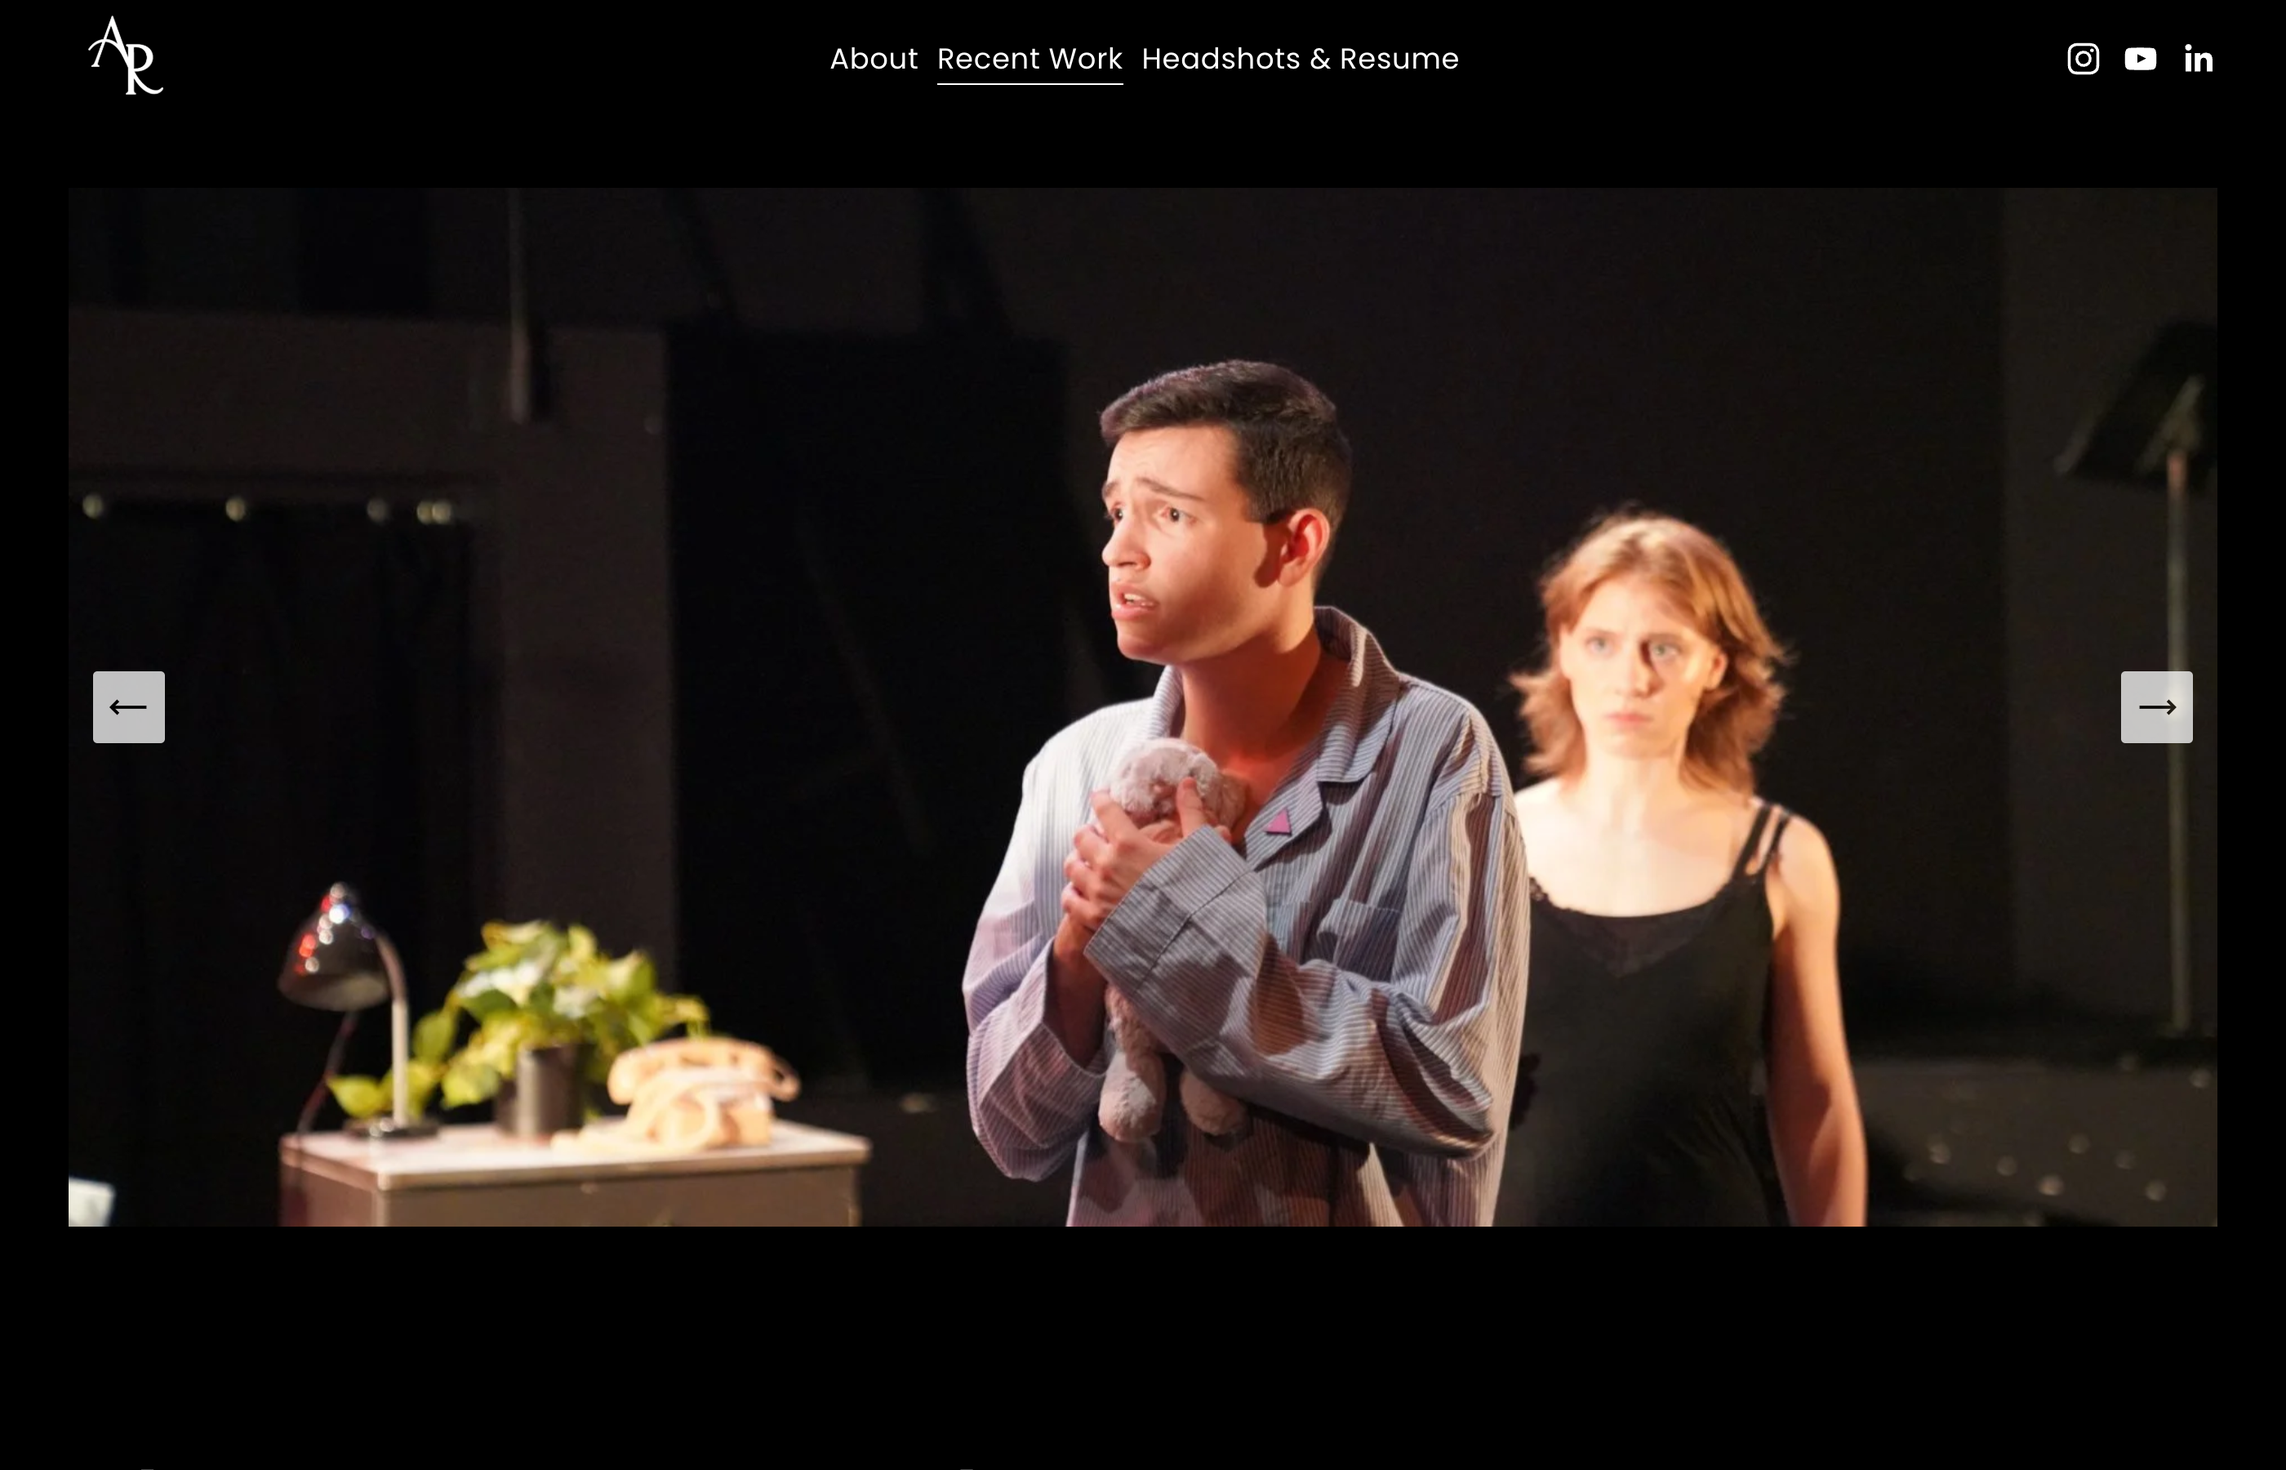
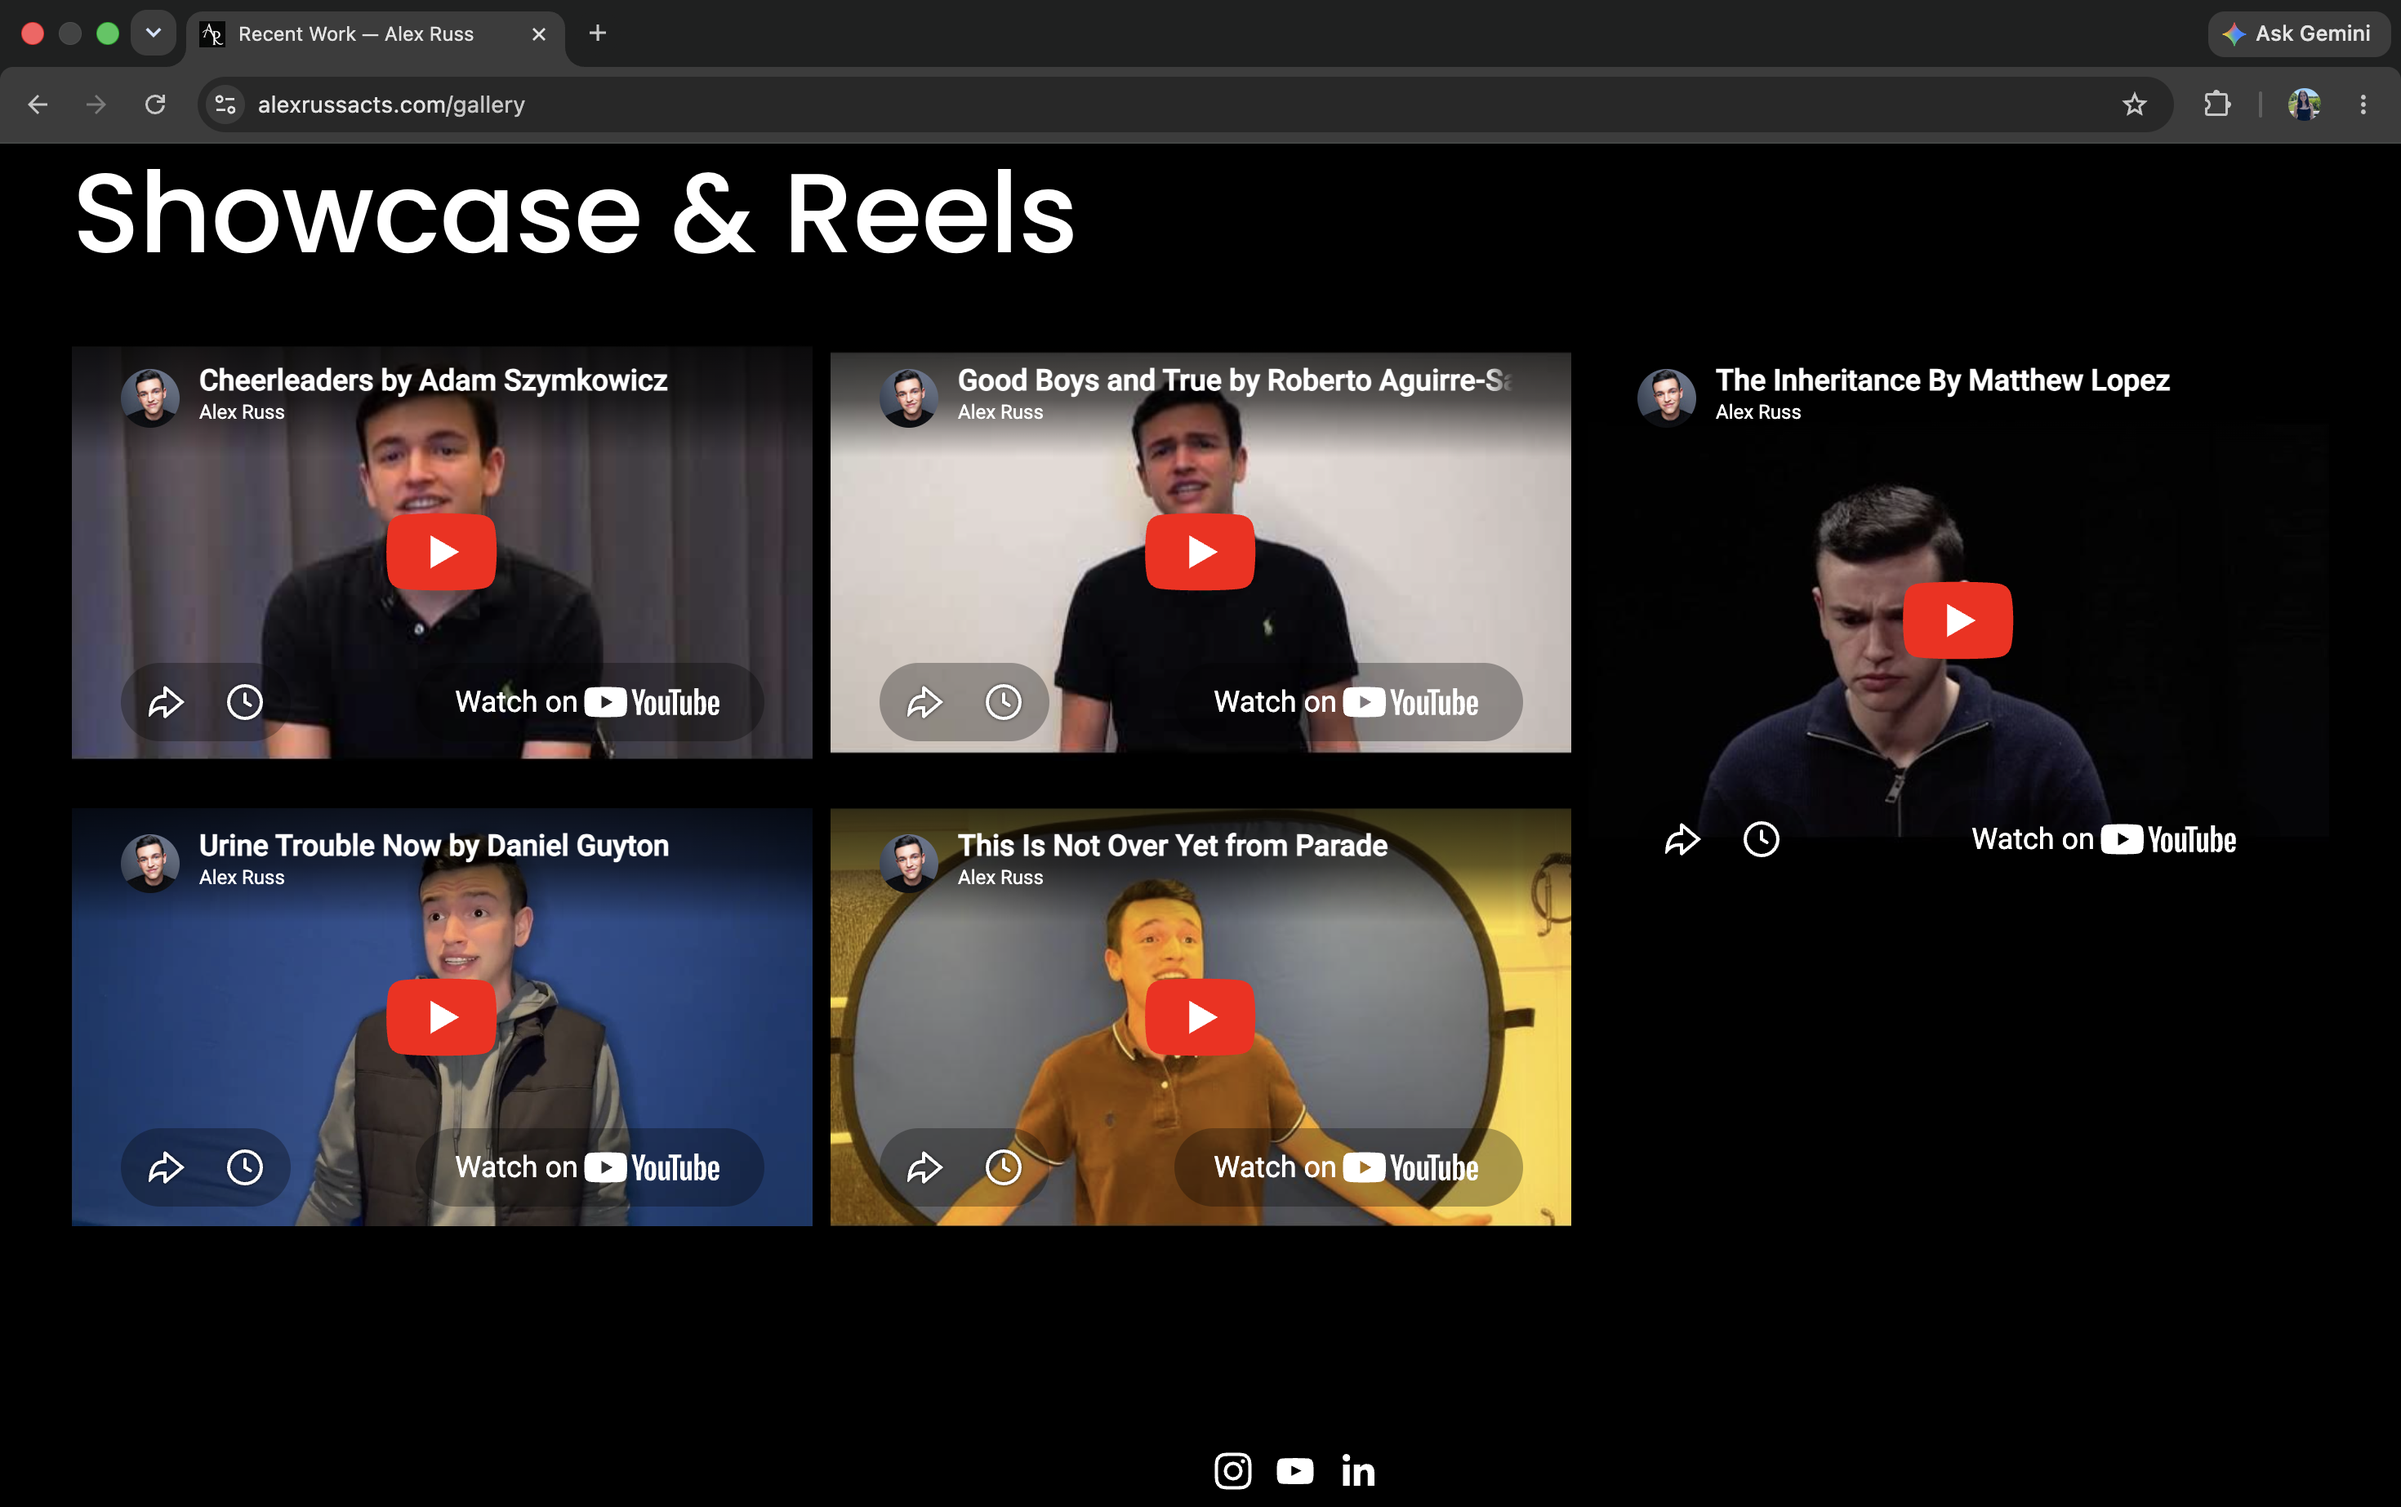
Replace alexruss gallery screenshots with user-provided images
Showcase & Reels and Headshots pages now show the correct
screenshots supplied by the user.

diff --git a/lib/content.ts b/lib/content.ts
@@ -246,8 +246,8 @@ export const allProjects = [
       ],
       images: [
         { caption: "Homepage: About", src: "/projects/alexruss-1.png", gradient: "linear-gradient(135deg, rgba(32,211,234,0.15), rgba(0,0,0,0.4))" },
-        { caption: "Recent Work Gallery", src: "/projects/alexruss-2.png", gradient: "linear-gradient(135deg, rgba(32,211,234,0.1), rgba(0,0,0,0.5))" },
-        { caption: "Headshots & Resume", src: "/projects/alexruss-3.png", gradient: "linear-gradient(135deg, rgba(32,211,234,0.12), rgba(0,0,0,0.45))" },
+        { caption: "Showcase & Reels", src: "/projects/alexruss-2.png", gradient: "linear-gradient(135deg, rgba(32,211,234,0.1), rgba(0,0,0,0.5))" },
+        { caption: "Headshots", src: "/projects/alexruss-3.png", gradient: "linear-gradient(135deg, rgba(32,211,234,0.12), rgba(0,0,0,0.45))" },
       ],
     },
   },
